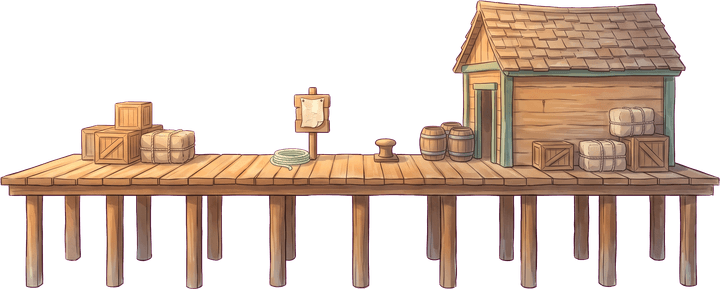
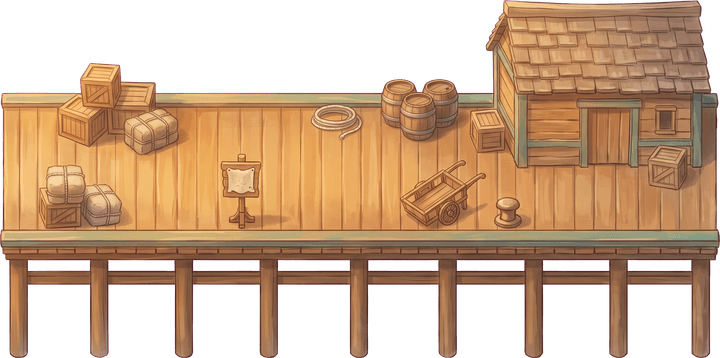
Seas: the docks, third pass — grand, matched, and no purple rim
The purple outline was the keyer's fault, not the art's: key-corner dropped
the DESPILL step the original chroma-keyer had, so every edge pixel kept the
magenta bounced into it by the plate. Restored — plate-family fringe pulled
out of edge colours — and applied to both new plates.

The raids dock is regenerated as the hub it is: two levels with a stair,
war-banners, braziers, a great crane, rows of cannon and shot, a pike rack —
imposing where the old plate was furniture. The voyages wharf is regenerated
at the same gentle from-above eye the raid dock had, deck surface showing,
instead of the near-frontal plate that sat too upright beside it.

The raid dock also draws at 3.0 DOCK_R against the wharf's 2.6: the hierarchy
between the two berths should be readable at a glance, and the collision and
mooring geometry are untouched — size is paint, the boundary bench is where
the footprint gets drawn.

diff --git a/web/app/(app)/sea/SeaMap.tsx b/web/app/(app)/sea/SeaMap.tsx
@@ -7098,7 +7098,10 @@ const Docks = memo(function Docks({ shipOut, near, shipTier }: {
       {([['raid', RAID_DOCK, '/sea/dock-raids.png', 'Raids'],
          ['voyage', VOYAGE_DOCK, '/sea/dock-voyages.png', 'Voyages']] as const).map(([id, d, art, label]) => (
         <div key={id}>
-          <SeaMark m={{ art, x: d.x, y: d.y, size: DOCK_R * 2.6 }} i={id === 'raid' ? 1400 : 1401} />
+          {/* The raid dock draws a shade larger: it is the hub that houses
+              your ship, and the new art is built like one — the hierarchy
+              between the two berths should be readable at a glance. */}
+          <SeaMark m={{ art, x: d.x, y: d.y, size: DOCK_R * (id === 'raid' ? 3.0 : 2.6) }} i={id === 'raid' ? 1400 : 1401} />
           {/* The name, counter-squashed and lifted clear like every label on
               this chart. Brighter when you are alongside, because that is the
               one moment it is telling you something you did not know. */}
